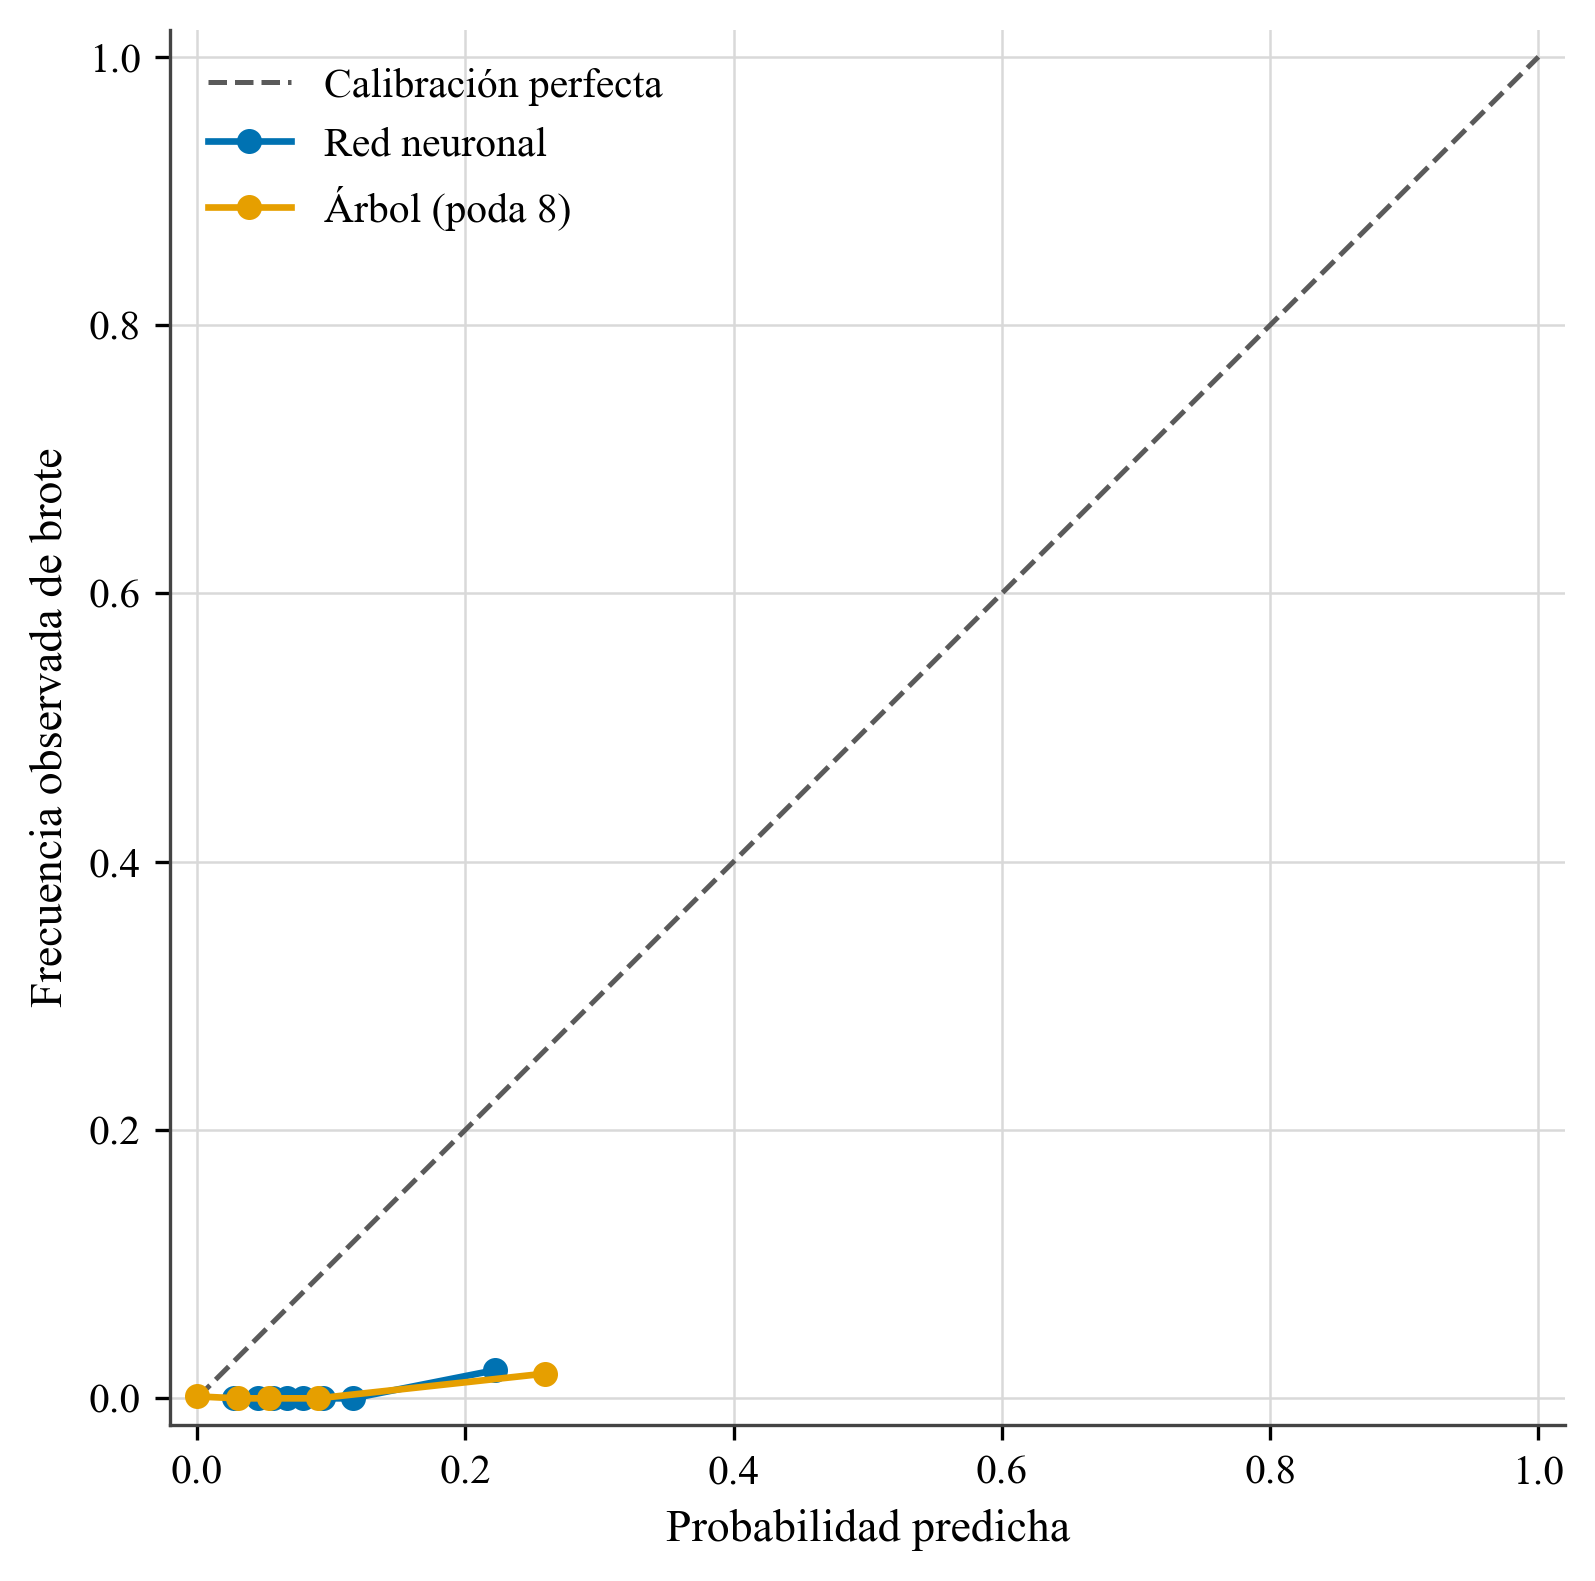
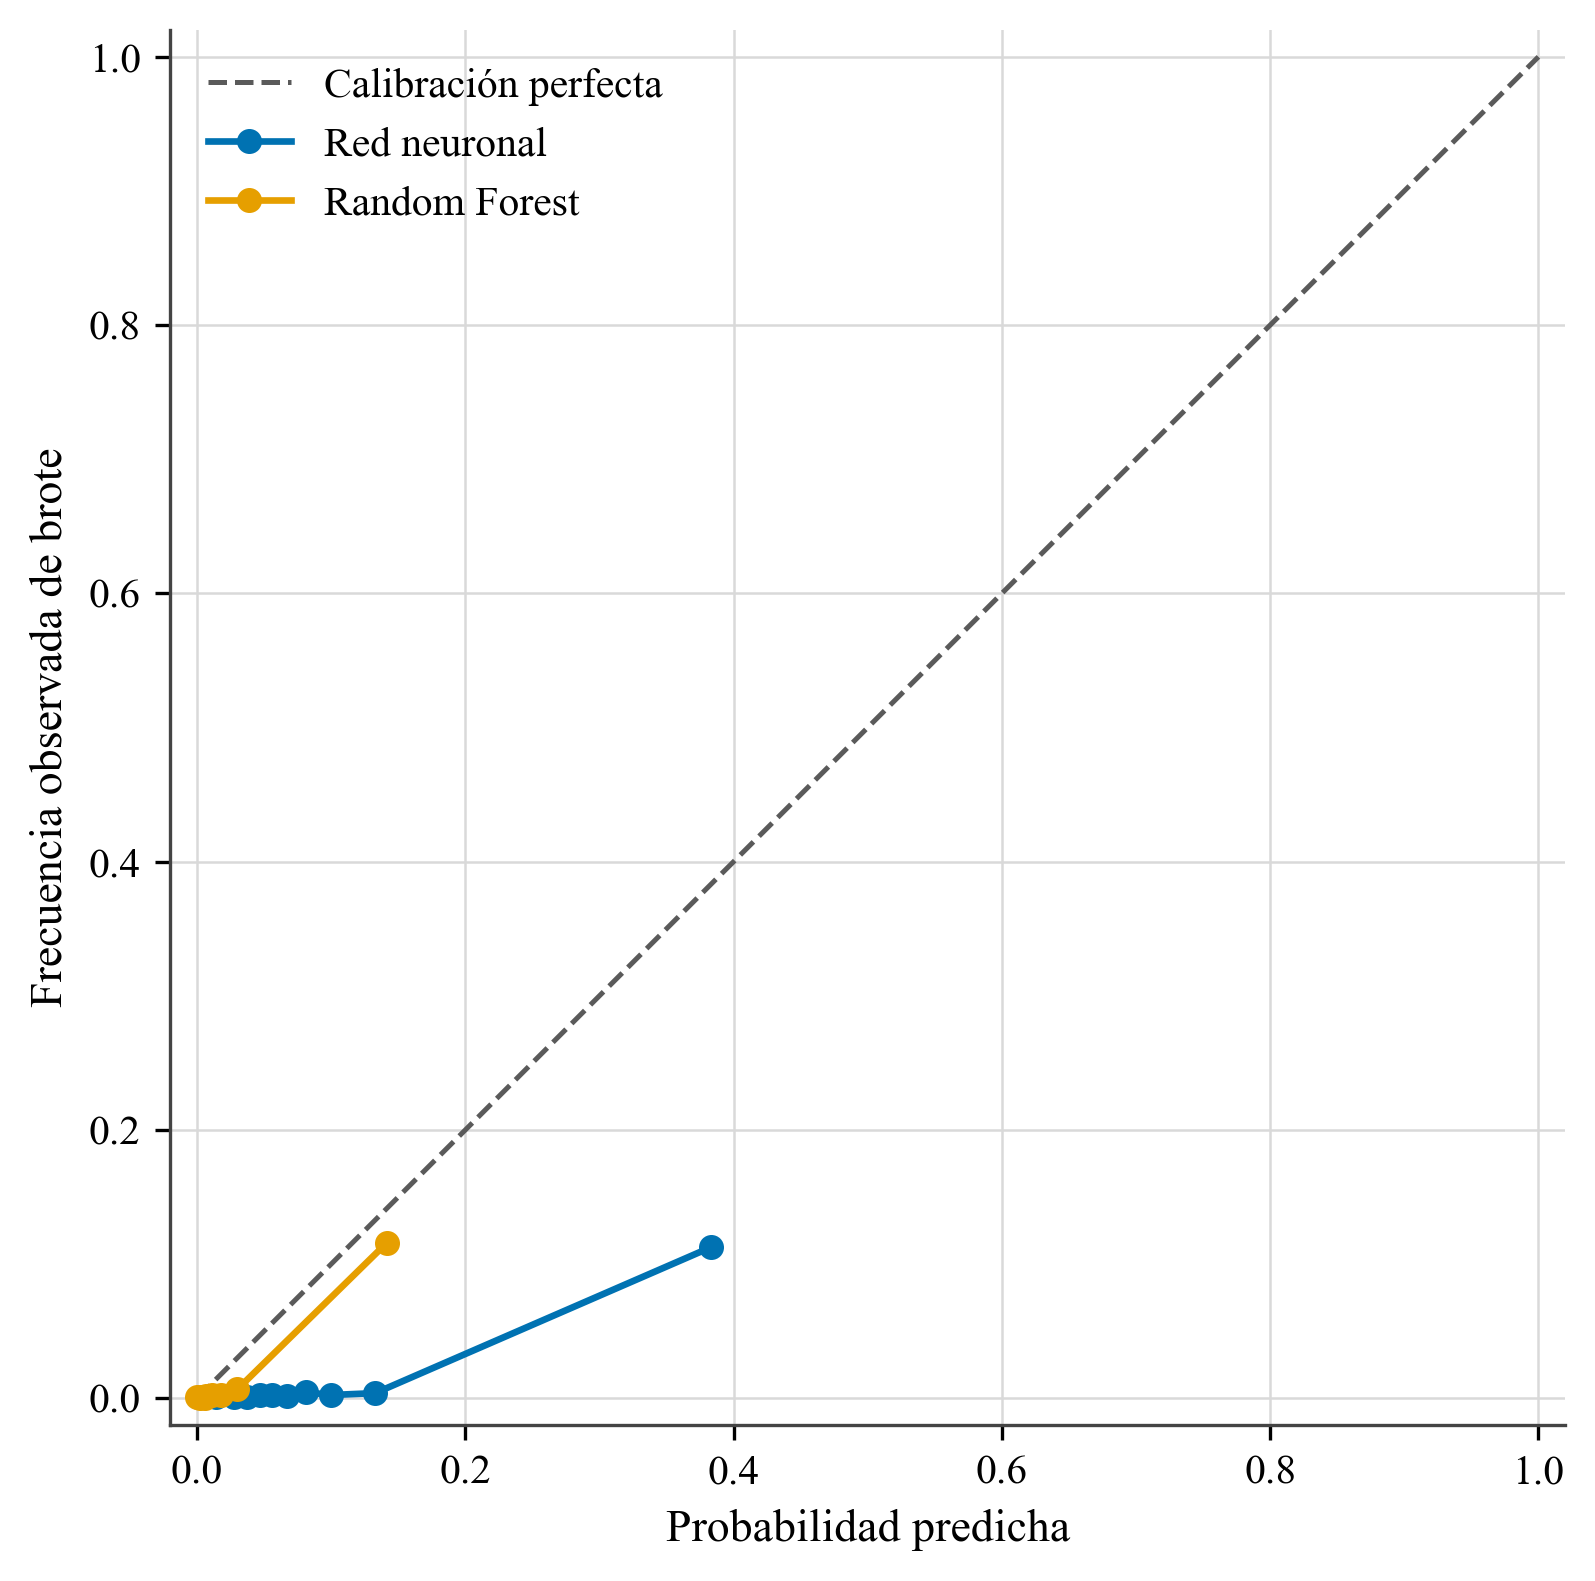
fix(figuras): calibración estable e importancia sobre el pool de origen móvil

diff --git a/src/satec/models/run_interpret.py b/src/satec/models/run_interpret.py
@@ -1,45 +1,45 @@
 """Genera figuras de interpretabilidad: importancia (permutacion) y calibracion."""
 import os
 import pandas as pd
-
-from satec.models.features_matrix import feature_matrix
-from satec.models.split import temporal_split
-from satec.models.train import (train_decision_tree, train_neural_net,
+from satec.models.rolling_origin import pooled_predictions, _nn_build
+from satec.models.train import (train_random_forest, train_neural_net,
                                 nn_predict_proba)
+from satec.models.features_matrix import feature_matrix
 from satec.models.interpret import (permutation_importance_ap,
                                     calibration_points, plot_importance,
                                     plot_calibration)
+from satec.models.paper_style import nice_model
 
 
-def main(repo: str = ".", year_cutoff: int = 2019) -> None:
+def main(repo: str = ".") -> None:
     df = pd.read_parquet(
         os.path.join(repo, "data/processed/dataset_enriched.parquet"))
-    train_df, test_df = temporal_split(df, year_cutoff)
-    Xtr, ytr = feature_matrix(train_df)
-    Xte, yte = feature_matrix(test_df)
+    results = os.path.join(repo, "results"); os.makedirs(results, exist_ok=True)
+    years = range(2016, 2025)
 
-    ad = train_decision_tree(Xtr, ytr, max_depth=8)
-    model, norm = train_neural_net(Xtr, ytr, epochs=60)
+    rf_pool = pooled_predictions(
+        df, lambda X, y: train_random_forest(X, y),
+        lambda m, X: m.predict_proba(X)[:, 1], years)
+    _nn_build.epochs = 60
+    rn_pool = pooled_predictions(
+        df, _nn_build, lambda mn, X: nn_predict_proba(mn[0], X, mn[1]), years)
 
-    def rn_pp(X):
-        return nn_predict_proba(model, X, norm)
-
-    results = os.path.join(repo, "results")
-    os.makedirs(results, exist_ok=True)
-
-    imp = permutation_importance_ap(rn_pp, Xte, yte, n_repeats=5)
-    imp.to_csv(os.path.join(results, "importancia_variables.csv"), index=False)
-    plot_importance(imp, os.path.join(results, "fig_importancia.png"))
-
-    from satec.models.paper_style import nice_model
     curves = {
-        nice_model("red_neuronal"): calibration_points(yte, rn_pp(Xte), n_bins=8),
-        nice_model("arbol_poda8"): calibration_points(
-            yte, ad.predict_proba(Xte)[:, 1], n_bins=8),
+        nice_model("red_neuronal"): calibration_points(
+            rn_pool["y_true"], rn_pool["y_score"], n_bins=10),
+        nice_model("random_forest"): calibration_points(
+            rf_pool["y_true"], rf_pool["y_score"], n_bins=10),
     }
     plot_calibration(curves, os.path.join(results, "fig_calibracion.png"))
-    print("[OK] fig_importancia.png · fig_calibracion.png · importancia_variables.csv")
-    print(imp.head(8).to_string(index=False))
+
+    # Importancia por permutación de la RN entrenada con todo el histórico.
+    Xall, yall = feature_matrix(df[df["anio"] <= 2024])
+    model, norm = train_neural_net(Xall, yall, epochs=60)
+    imp = permutation_importance_ap(
+        lambda X: nn_predict_proba(model, X, norm), Xall, yall, n_repeats=5)
+    imp.to_csv(os.path.join(results, "importancia_variables.csv"), index=False)
+    plot_importance(imp, os.path.join(results, "fig_importancia.png"))
+    print("[OK] fig_calibracion.png · fig_importancia.png")
 
 
 if __name__ == "__main__":